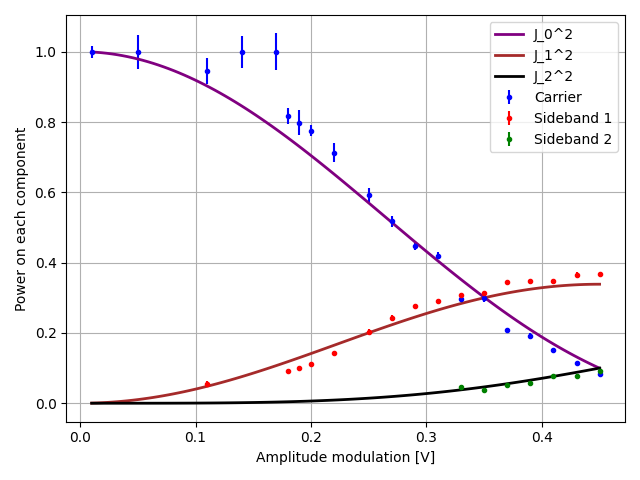
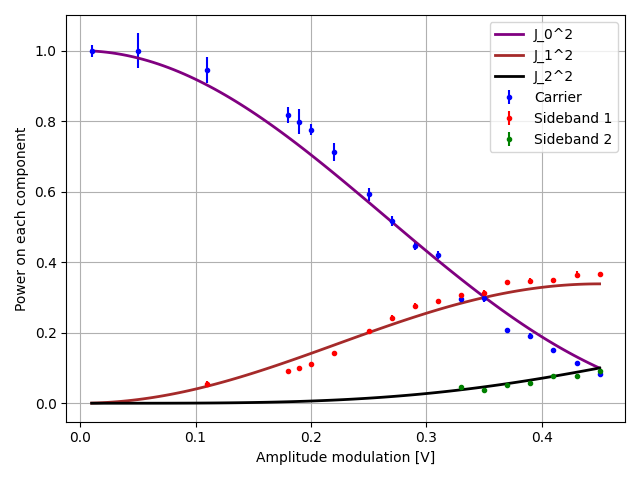
bessel

diff --git a/bessel_analysis.py b/bessel_analysis.py
@@ -6,10 +6,17 @@ from scipy.special import jv
 from scipy.optimize import fsolve, curve_fit
 
 df = pd.read_csv('data_bessel/clean_data/bessel_sidebands.csv')
+df = df[df['title'] != 'bessel00003']
+df = df[df['title'] != 'bessel00004']
+
+print(df)
 
 grouped_data = {label: group for label, group in df.groupby(df['title'])}
 
-mod_ampl = np.array([10, 50, 110, 140, 170, 180, 190, 200, 220,
+'''mod_ampl = np.array([10, 50, 110, 140, 170, 180, 190, 200, 220,
+                     250, 270, 290, 310, 330, 350, 370, 390, 410, 430, 450])/1000'''
+
+mod_ampl = np.array([10, 50, 110, 180, 190, 200, 220,
                      250, 270, 290, 310, 330, 350, 370, 390, 410, 430, 450])/1000
 
 A_s1 = []
